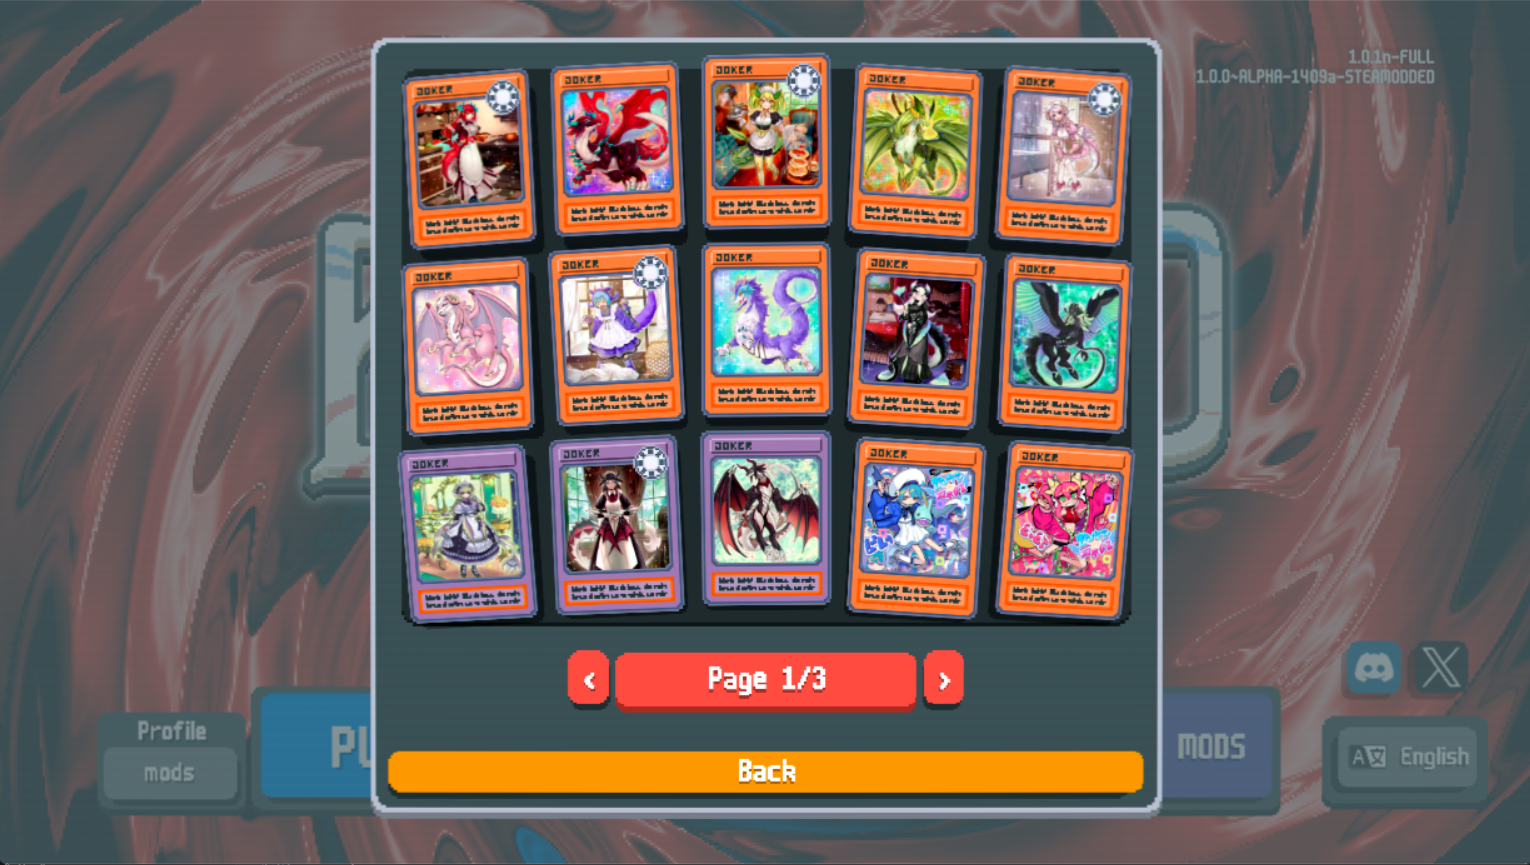
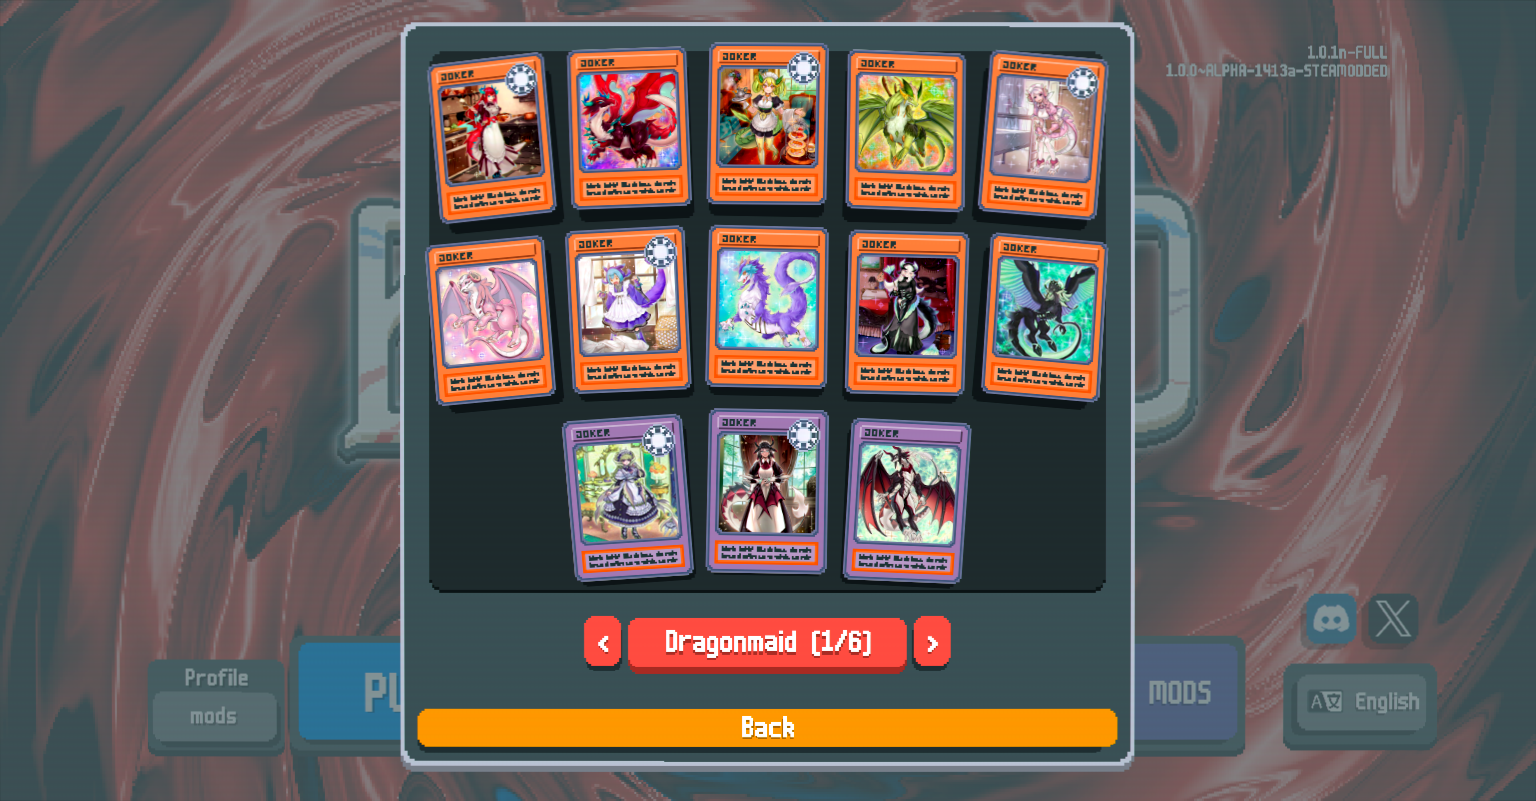
add implemented

diff --git a/README.md b/README.md
@@ -39,6 +39,9 @@ Planned archetypes (I probably won't accept suggestions on these until they're f
 <img src="screenshots/implemented1.png" alt="Implemented 1" width="500">
 <img src="screenshots/implemented2.png" alt="Implemented 2" width="500">
 <img src="screenshots/implemented3.png" alt="Implemented 3" width="500">
+<img src="screenshots/implemented4.png" alt="Implemented 4" width="500">
+<img src="screenshots/implemented5.png" alt="Implemented 5" width="500">
+<img src="screenshots/implemented6.png" alt="Implemented 6" width="500">
 
 ## Contributing
 
